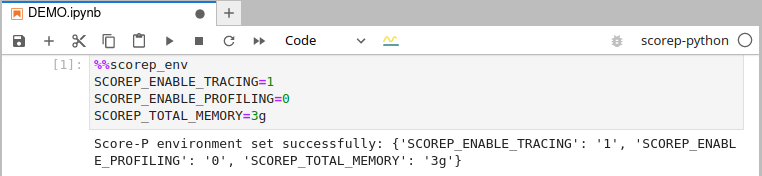
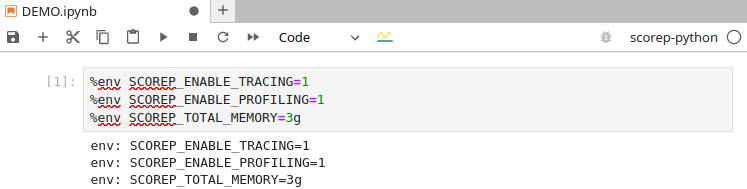
fix readme for removal of %%scorep_env

Changed region(s): [[0.0, 0.0, 1.0, 1.0]]

diff --git a/README.md b/README.md
@@ -52,9 +52,9 @@ You can select the kernel in Jupyter as `scorep-python`.
 
 ## Configuring Score-P in Jupyter
 
-`%%scorep_env`
+Set up your Score-P environment with `%env` line magic. 
 
-Set up your Score-P environment. For a documentation of Score-P environment variables, see: [Score-P Measurement Configuration](https://perftools.pages.jsc.fz-juelich.de/cicd/scorep/tags/latest/html/scorepmeasurementconfig.html).
+For a documentation of Score-P environment variables, see: [Score-P Measurement Configuration](https://perftools.pages.jsc.fz-juelich.de/cicd/scorep/tags/latest/html/scorepmeasurementconfig.html).
 
 ![](doc/scorep_setup.png)
 
@@ -127,7 +127,7 @@ Enables the write mode and starts the marking process. Subsequently, "running" c
 Stops the marking process and writes the marked cells in a Python script. Additionally, a bash script will be created for setting the Score-P environment variables, Pyhton bindings arguments and executing the Python script.
 
 **Hints**:
-- Recording a cell containing `%%scorep_env` or `%%scorep_python_binding_arguments` will add the environment variables/Score-P Python bindings to the bash script.
+- Recording a cell containing `%%scorep_python_binding_arguments` will add the Score-P Python bindings parameters to the bash script.
 
 - Code of a cell which is not to be executed with Score-P (not inside the multicell mode and without `%%execute_with_scorep`) will be framed with `with scorep.instrumenter.disable()` in the Python script to prevent instrumentation.
 
